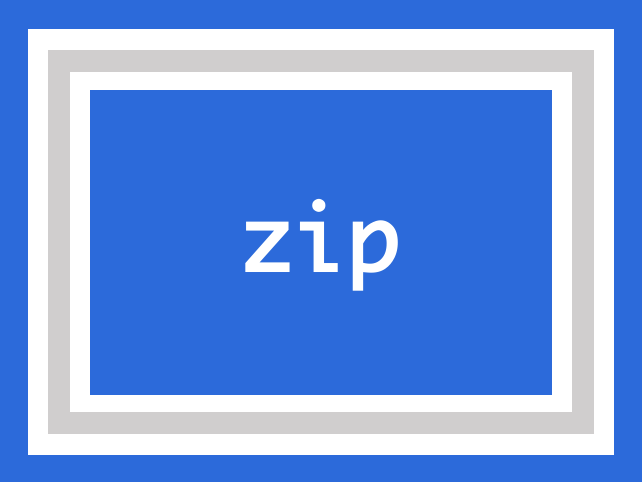
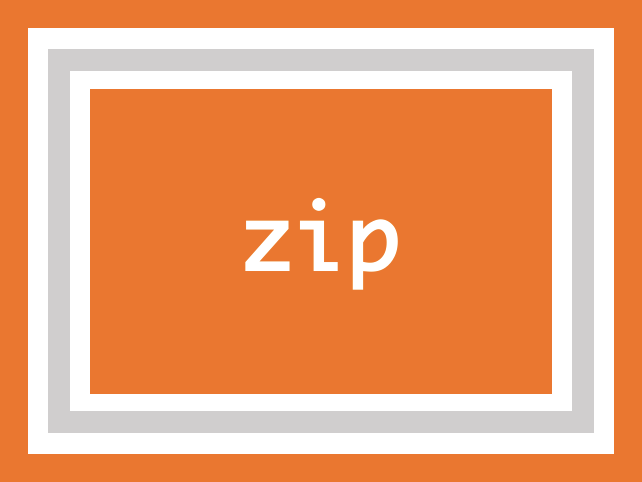
change color to orange

diff --git a/docs/_static/css/lstheme.css b/docs/_static/css/lstheme.css
@@ -9,24 +9,24 @@
 }
 
 /* General Settings */
-a{color: var(--lr-blue);}
-a:visited{color: var(--lr-blue);}
+a{color: var(--lr-orange);}
+a:visited{color: var(--lr-orange);}
 a:hover{color: var(--lr-mid-grey);}
-a:active{color: var(--lr-blue);}
+a:active{color: var(--lr-orange);}
 
 /* Side Panel  */
 .wy-side-nav-search{background-color: var(--lr-light-grey);} /* logo area background */
-.wy-side-nav-search a{color: var(--lr-black);} /* home logo and name */
+.wy-side-nav-search a{color: var(--lr-orange);} /* home logo and name */
 
-.wy-nav-top{background: var(--lr-blue);}
+.wy-nav-top{background: var(--lr-orange);}
 .wy-nav-side{background: var(--lr-light-grey);} /* menu background */
 
 .wy-menu-vertical p.caption {
-    color: var(--lr-blue);
+    color: var(--lr-orange);
     font-weight: bold;
 }
-.wy-menu-vertical a{color: var(--lr-blue);}
-.wy-menu-vertical  a:active{background: var(--lr-blue);}
+.wy-menu-vertical a{color: var(--lr-orange);}
+.wy-menu-vertical  a:active{background: var(--lr-orange);}
 
 /* Note and warning top and backround */
 .rst-content .note .admonition-title{background: var(--lr-blue);}

diff --git a/docs/source/_static/css/lstheme.css b/docs/source/_static/css/lstheme.css
@@ -9,24 +9,24 @@
 }
 
 /* General Settings */
-a{color: var(--lr-blue);}
-a:visited{color: var(--lr-blue);}
+a{color: var(--lr-orange);}
+a:visited{color: var(--lr-orange);}
 a:hover{color: var(--lr-mid-grey);}
-a:active{color: var(--lr-blue);}
+a:active{color: var(--lr-orange);}
 
 /* Side Panel  */
 .wy-side-nav-search{background-color: var(--lr-light-grey);} /* logo area background */
-.wy-side-nav-search a{color: var(--lr-black);} /* home logo and name */
+.wy-side-nav-search a{color: var(--lr-orange);} /* home logo and name */
 
-.wy-nav-top{background: var(--lr-blue);}
+.wy-nav-top{background: var(--lr-orange);}
 .wy-nav-side{background: var(--lr-light-grey);} /* menu background */
 
 .wy-menu-vertical p.caption {
-    color: var(--lr-blue);
+    color: var(--lr-orange);
     font-weight: bold;
 }
-.wy-menu-vertical a{color: var(--lr-blue);}
-.wy-menu-vertical  a:active{background: var(--lr-blue);}
+.wy-menu-vertical a{color: var(--lr-orange);}
+.wy-menu-vertical  a:active{background: var(--lr-orange);}
 
 /* Note and warning top and backround */
 .rst-content .note .admonition-title{background: var(--lr-blue);}

diff --git a/docs/index.html b/docs/index.html
@@ -208,7 +208,7 @@
 <li class="toctree-l1"><a class="reference internal" href="version_history.html">Version History</a></li>
 </ul>
 </div>
-<p>Documentation Build Date: 07/30/2021, 12:27:14</p>
+<p>Documentation Build Date: 07/30/2021, 12:41:06</p>
 </div>
 
 
